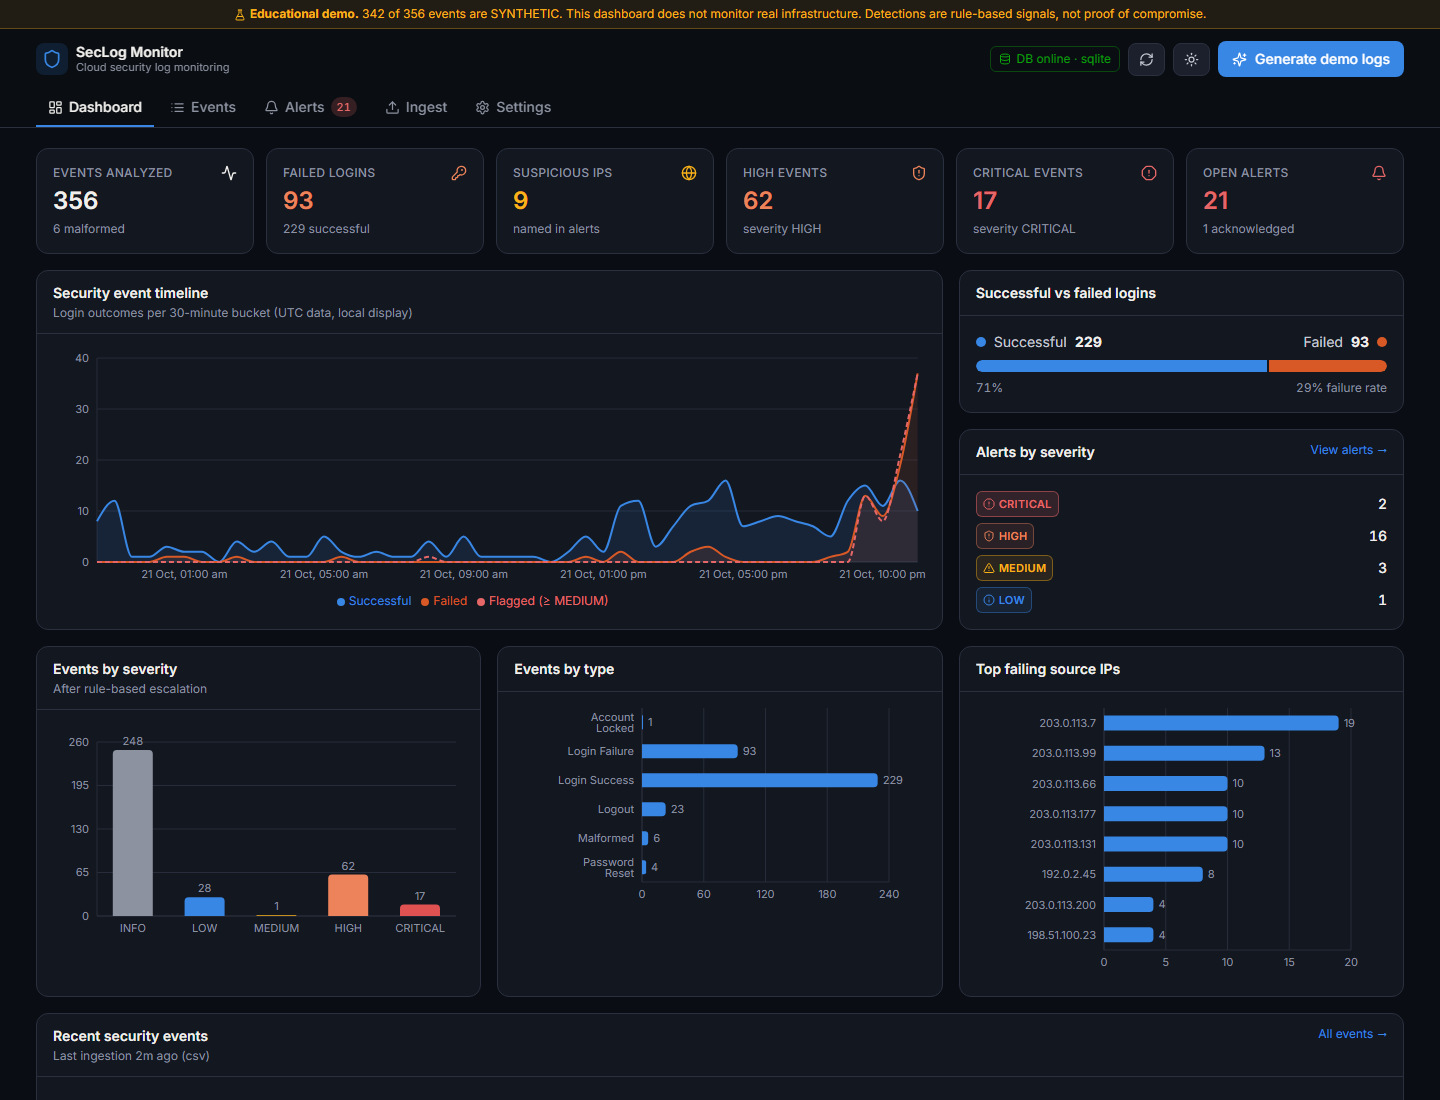
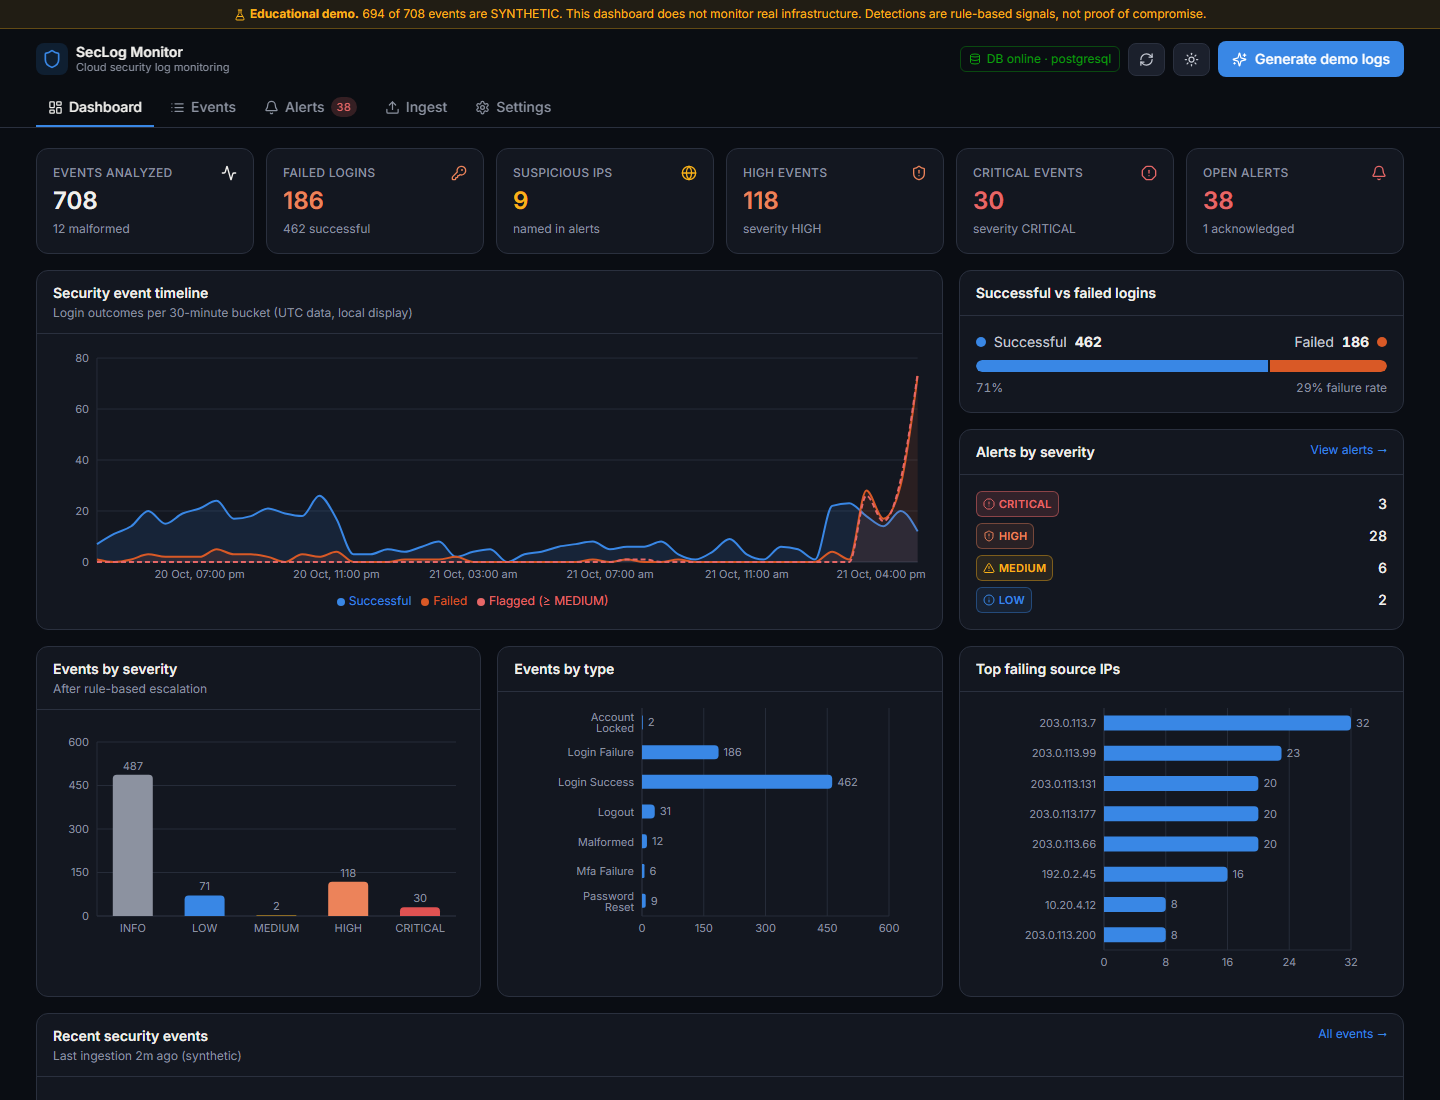
Docs: live URLs, deployment steps, test results and production screenshots

diff --git a/README.md b/README.md
@@ -6,9 +6,9 @@ A full-stack, cloud-deployed **security log monitoring** application. It ingests
 
 | | |
 |---|---|
-| **Live app** | _PUBLIC_URL_ |
-| **API health** | _PUBLIC_URL_/api/health |
-| **Repository** | _REPO_URL_ |
+| **Live app** | https://cloud-security-log-monitor.vercel.app |
+| **API health** | https://cloud-security-log-monitor.vercel.app/api/health |
+| **Repository** | https://github.com/JaswanthReddy5/cloud-security-log-monitor |
 
 ![Dashboard](docs/screenshots/dashboard.png)
 
@@ -126,7 +126,7 @@ cloud-security-log-monitor/
 Prerequisites: Python 3.12+, Node.js 20+, Git.
 
 ```bash
-git clone _REPO_URL_.git
+git clone https://github.com/JaswanthReddy5/cloud-security-log-monitor.git
 cd cloud-security-log-monitor
 
 # Backend
@@ -150,7 +150,7 @@ To use PostgreSQL locally, set `DATABASE_URL=postgresql://…` in `.env`.
 
 | Variable | Required | Description |
 |---|---|---|
-| `DATABASE_URL` | **prod: yes** | PostgreSQL URL (`postgres://` / `postgresql://` accepted). Set automatically by the Vercel ↔ Neon integration. Empty locally → SQLite. `POSTGRES_URL` is used as a fallback. |
+| `DATABASE_URL` | **prod: yes** | PostgreSQL URL (`postgres://` / `postgresql://` accepted); use Neon’s pooled endpoint. Stored as a Sensitive Vercel env var (set automatically if you use the Vercel ↔ Neon integration). Empty locally → SQLite. `POSTGRES_URL` is used as a fallback. |
 | `ADMIN_API_KEY` | recommended | Secret for admin actions (reset, threshold changes). If unset, admin endpoints are disabled (403). |
 | `IP_HASH_SALT` | recommended | Salt for hashing client IPs used in rate limiting. Raw visitor IPs are never stored. |
 | `CORS_ORIGINS` | no | Comma-separated allowed origins, only if the frontend is hosted elsewhere. |
@@ -209,7 +209,7 @@ Admin endpoints require header `X-Admin-Key: <ADMIN_API_KEY>`.
 
 ```bash
 # Generate synthetic logs
-curl -X POST _PUBLIC_URL_/api/logs/generate -H "Content-Type: application/json" -d '{"count": 250}'
+curl -X POST https://cloud-security-log-monitor.vercel.app/api/logs/generate -H "Content-Type: application/json" -d '{"count": 250}'
 ```
 ```json
 {"ok": true, "data": {"batch": {"id": 3, "source": "synthetic", "received": 342, "imported": 336, "rejected": 6,
@@ -220,17 +220,17 @@ curl -X POST _PUBLIC_URL_/api/logs/generate -H "Content-Type: application/json" 
 
 ```bash
 # Upload a CSV file
-curl -X POST _PUBLIC_URL_/api/logs/upload -F "file=@sample_security_logs.csv"
+curl -X POST https://cloud-security-log-monitor.vercel.app/api/logs/upload -F "file=@sample_security_logs.csv"
 
 # Push events from a log shipper
-curl -X POST _PUBLIC_URL_/api/logs/ingest -H "Content-Type: application/json" \
+curl -X POST https://cloud-security-log-monitor.vercel.app/api/logs/ingest -H "Content-Type: application/json" \
   -d '{"events":[{"timestamp":"2026-10-21T10:00:00Z","source_ip":"203.0.113.7","username":"bob","status":"failure"}]}'
 
 # Open HIGH/CRITICAL alerts
-curl "_PUBLIC_URL_/api/alerts?status=open&severity=HIGH,CRITICAL"
+curl "https://cloud-security-log-monitor.vercel.app/api/alerts?status=open&severity=HIGH,CRITICAL"
 
 # Acknowledge alert 12
-curl -X PATCH _PUBLIC_URL_/api/alerts/12 -H "Content-Type: application/json" -d '{"acknowledged": true}'
+curl -X PATCH https://cloud-security-log-monitor.vercel.app/api/alerts/12 -H "Content-Type: application/json" -d '{"acknowledged": true}'
 ```
 
 **Accepted log format** (CSV header or JSON keys; common aliases such as `ip`, `user`, `result` are accepted):
@@ -272,7 +272,7 @@ npm run lint && npm test && npm run build
 
 # End-to-end smoke test against a running instance (local or production)
 python scripts/smoke_test.py http://127.0.0.1:5000
-python scripts/smoke_test.py _PUBLIC_URL_
+python scripts/smoke_test.py https://cloud-security-log-monitor.vercel.app
 ```
 
 Coverage of the required cases (all in `backend/tests/`):
@@ -292,18 +292,30 @@ Coverage of the required cases (all in `backend/tests/`):
 | DB errors / unavailable config | `test_database_not_configured`, `test_database_unreachable`, `test_production_requires_database_url` |
 | API error responses | `test_events_bad_params`, `test_unknown_route_and_method`, `test_generate_validation`, `test_reset_requires_admin_and_confirmation`, `test_rate_limit` |
 
-_TEST_RESULTS_
+**Latest results (21 Oct 2026):**
+
+| Suite | Result |
+|---|---|
+| Backend `pytest` (detection, parsing, API, persistence, DB failures, env sanitizing) | **68 passed** |
+| Backend `ruff` lint | clean |
+| Frontend ESLint · Vitest · `tsc` + `vite build` | clean · **4 passed** · build OK |
+| End-to-end smoke test, local (SQLite) | **21 / 21 passed** |
+| End-to-end smoke test, **production** (Vercel + Neon) | **21 / 21 passed** |
+| GitHub Actions CI | passing |
+| Manual browser checks (local + production): generate, filters/search/sort, acknowledge, reload persistence, light/dark, 375 px mobile, console errors | passed, no console errors |
 
 ## Deployment
 
+**Live deployment:** https://cloud-security-log-monitor.vercel.app (Vercel Hobby plan) with a **Neon** PostgreSQL 18 database (`seclog-db`, free plan, AWS us-east-1, pooled endpoint).
+
 The project deploys as **one Vercel project** connected to this GitHub repository:
 
-1. **Vercel → Add New → Project → Import** the GitHub repository (root directory = repo root). `vercel.json` sets the build (`npm --prefix frontend run build`), output (`frontend/dist`), the Python function (`api/index.py`) and the `/api/*` rewrite.
-2. **Storage → Create Database → Neon (Postgres)** and connect it to the project. This injects `DATABASE_URL` (and related variables) as encrypted environment variables. Neon’s free plan is sufficient.
-3. **Settings → Environment Variables:** add `ADMIN_API_KEY` and `IP_HASH_SALT` (long random strings) for Production.
-4. **Redeploy.** Tables are created automatically on the first request. Verify with `/api/health` and `python scripts/smoke_test.py <url>`.
+1. **Vercel → Add New → Project → Import** the GitHub repository (root directory = repo root), or `vercel link` + `vercel git connect`. `vercel.json` sets the build (`npm --prefix frontend run build`), output (`frontend/dist`), the Python function (`api/index.py`) and the `/api/*` rewrite.
+2. **Create a Neon database** (free plan), either via Vercel **Storage → Create Database → Neon**, or directly in Neon (`neonctl projects create --name seclog-db --region-id aws-us-east-1`).
+3. **Set encrypted environment variables (Production):** `DATABASE_URL` (Neon *pooled* connection string), `ADMIN_API_KEY` and `IP_HASH_SALT` (long random strings), as **Sensitive** values in Vercel → Settings → Environment Variables, or `vercel env add NAME production --sensitive`.
+4. **Deploy:** push to `main`. Tables are created automatically on the first request. Verify with `/api/health` and `python scripts/smoke_test.py https://cloud-security-log-monitor.vercel.app`.
 
-Every push to `main` triggers a new production deployment; GitHub Actions runs the test suites on each push / PR.
+Every push to `main` triggers a new production deployment; GitHub Actions runs the test suites on each push / PR. Runtime logs (including the app’s structured `{"event": "ingest" | "alert_ack" | "reset" ...}` audit lines) are in Vercel → Project → Logs.
 
 ## Security controls
 
